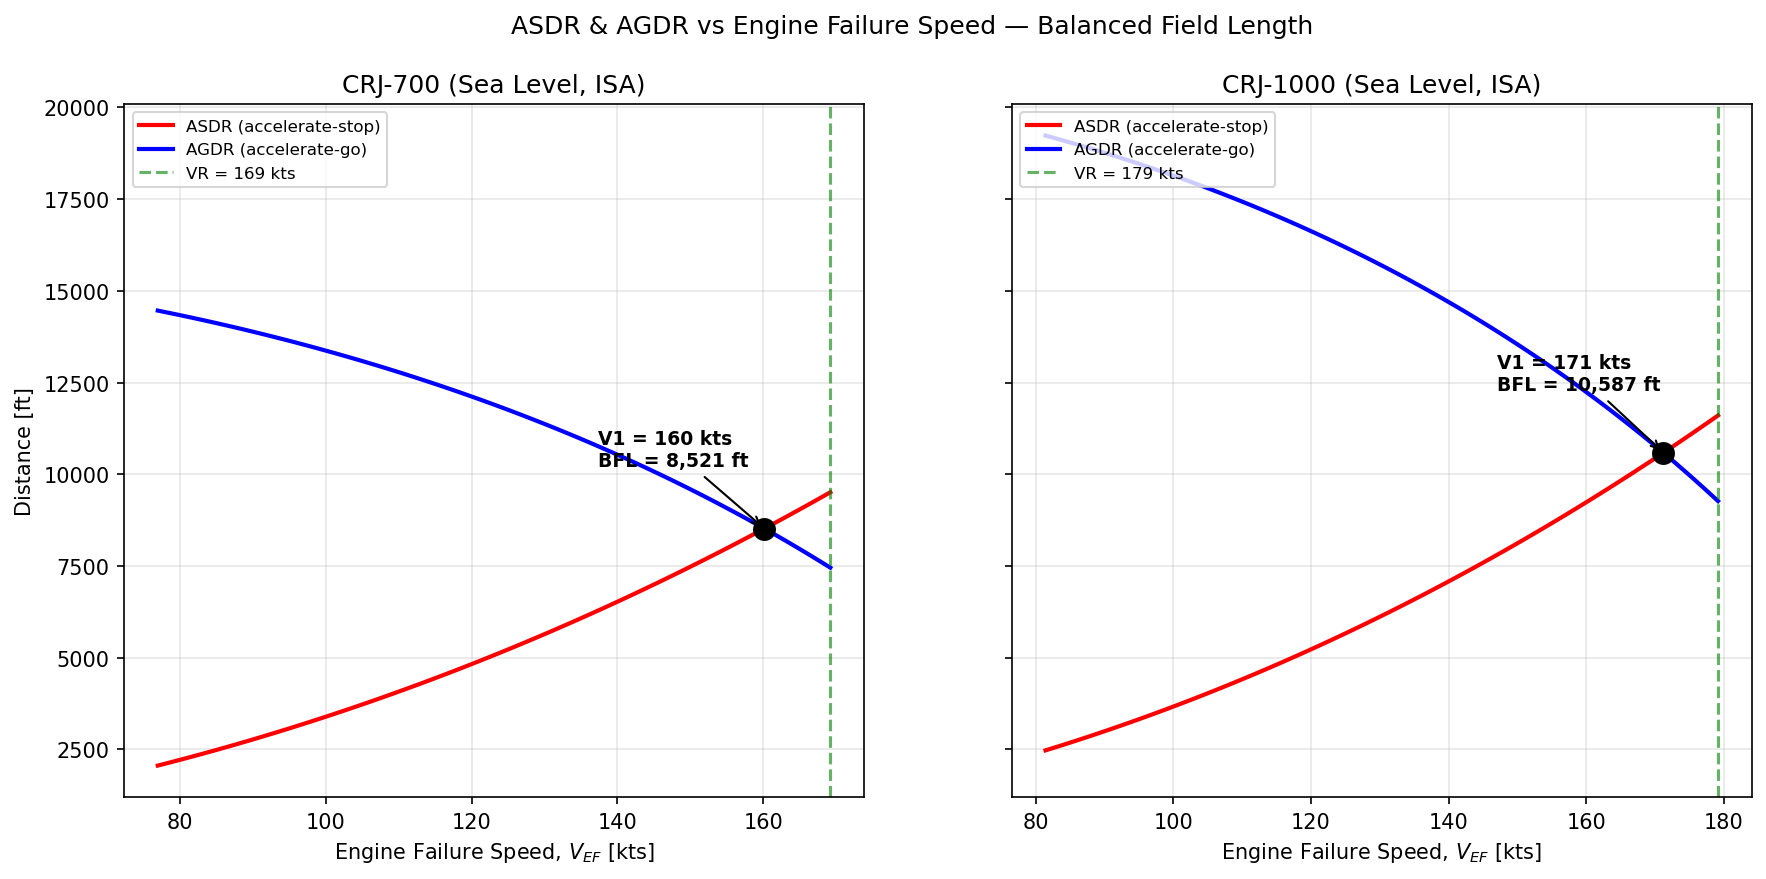
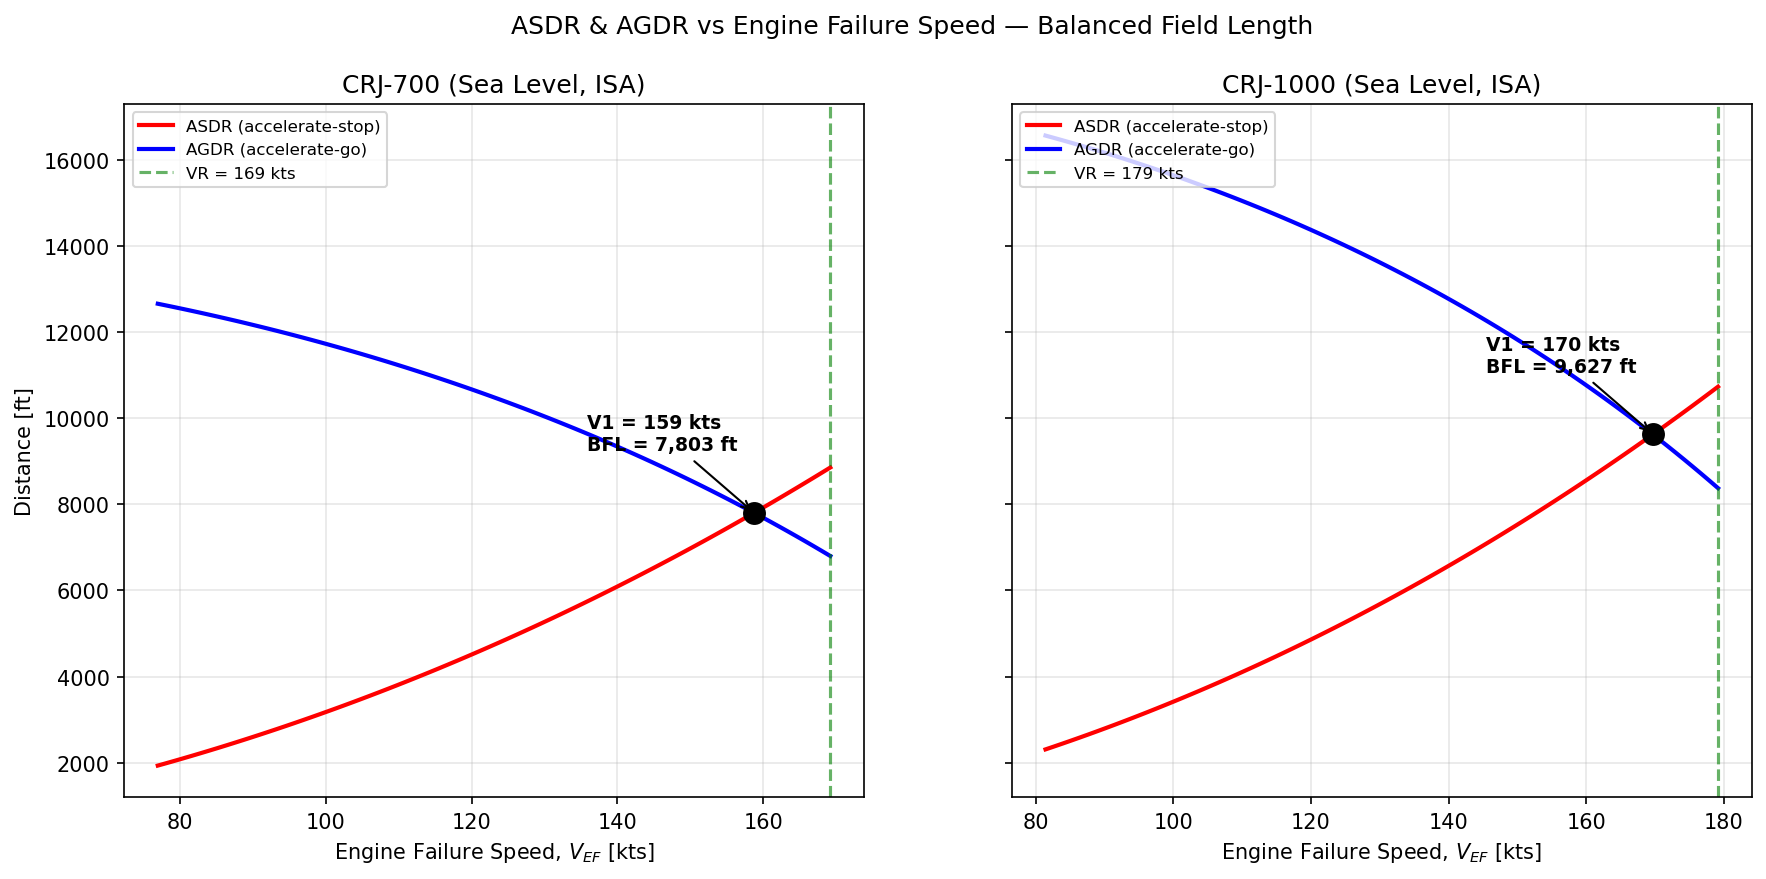
Use Raymer Eq. 17.114 BPR-corrected average thrust for ground roll
Was using T_TO = 0.75 * T_static which is too conservative.
Raymer Eq. 17.114: T_avg = 0.75 * (5+BPR)/(4+BPR) * T_static.
For BPR=5 this gives 0.833 instead of 0.75.
CRJ-700 TODR: 7,455 -> 6,801 ft.

diff --git a/examples/plot_performance.py b/examples/plot_performance.py
@@ -372,7 +372,7 @@ def plot_TO_landing_bars():
     for ac in VARIANTS:
         W, S, CD0, K = ac.W_TO, ac.S, ac.CD0, ac.K
         rho = RHO_SL
-        T_TO = 0.75 * ac.T_max_SL
+        T_TO = 0.75 * (5.0 + ac.BPR) / (4.0 + ac.BPR) * ac.T_max_SL
 
         to = total_takeoff_distance(W, S, T_TO, CD0+0.015, ac.CL_ground, K,
                                     ac.mu_roll, rho, ac.CL_max_TO,
@@ -439,7 +439,7 @@ def plot_asdr_todr():
         W, S, CD0, K = ac.W_TO, ac.S, ac.CD0, ac.K
         rho = RHO_SL
         CD0_TO = CD0 + 0.015
-        T_TO = 0.75 * ac.T_max_SL
+        T_TO = 0.75 * (5.0 + ac.BPR) / (4.0 + ac.BPR) * ac.T_max_SL
         T_idle = 0.05 * ac.T_max_SL
 
         curves = asdr_todr_curves(

diff --git a/examples/full_analysis.py b/examples/full_analysis.py
@@ -309,7 +309,9 @@ def analyse(ac):
     subsection("17.8  TAKEOFF ANALYSIS (Sea Level, ISA)")
 
     CD0_TO = CD0 + 0.015   # gear + flap drag increment
-    T_TO = 0.75 * T_sl     # average thrust during ground roll
+    # Raymer Eq. 17.114: average thrust = T_static * 0.75*(5+BPR)/(4+BPR)
+    T_ratio = 0.75 * (5.0 + ac.BPR) / (4.0 + ac.BPR)
+    T_TO = T_ratio * T_sl
 
     # All-engine TODR
     to = total_takeoff_distance(

diff --git a/README.md b/README.md
@@ -181,12 +181,12 @@ Running `python examples/plot_performance.py` generates 10 charts in `examples/c
   Range (nmi)                          2,976         2,359
   Best ROC (fpm)                      11,202         9,393
   Corner spd (kts)                       276           292
-  TODR (ft)                            7,455         9,249
-  TODR FAR (ft)                        8,573        10,636
-  ASDR at V1 (ft)                      8,520        10,587
-  BFL iterative (ft)                   8,521        10,587
+  TODR (ft)                            6,801         8,377
+  TODR FAR (ft)                        7,821         9,634
+  ASDR at V1 (ft)                      7,803         9,627
+  BFL iterative (ft)                   7,803         9,627
   BFL Eq.17.113 (ft)                   7,933         9,808
-  TOFL FAR 25 (ft)                     8,573        10,636
+  TOFL FAR 25 (ft)                     7,821         9,634
   LDR (ft)                             4,258         4,592
   LDR FAR (ft)                         7,099         7,656
 ```
